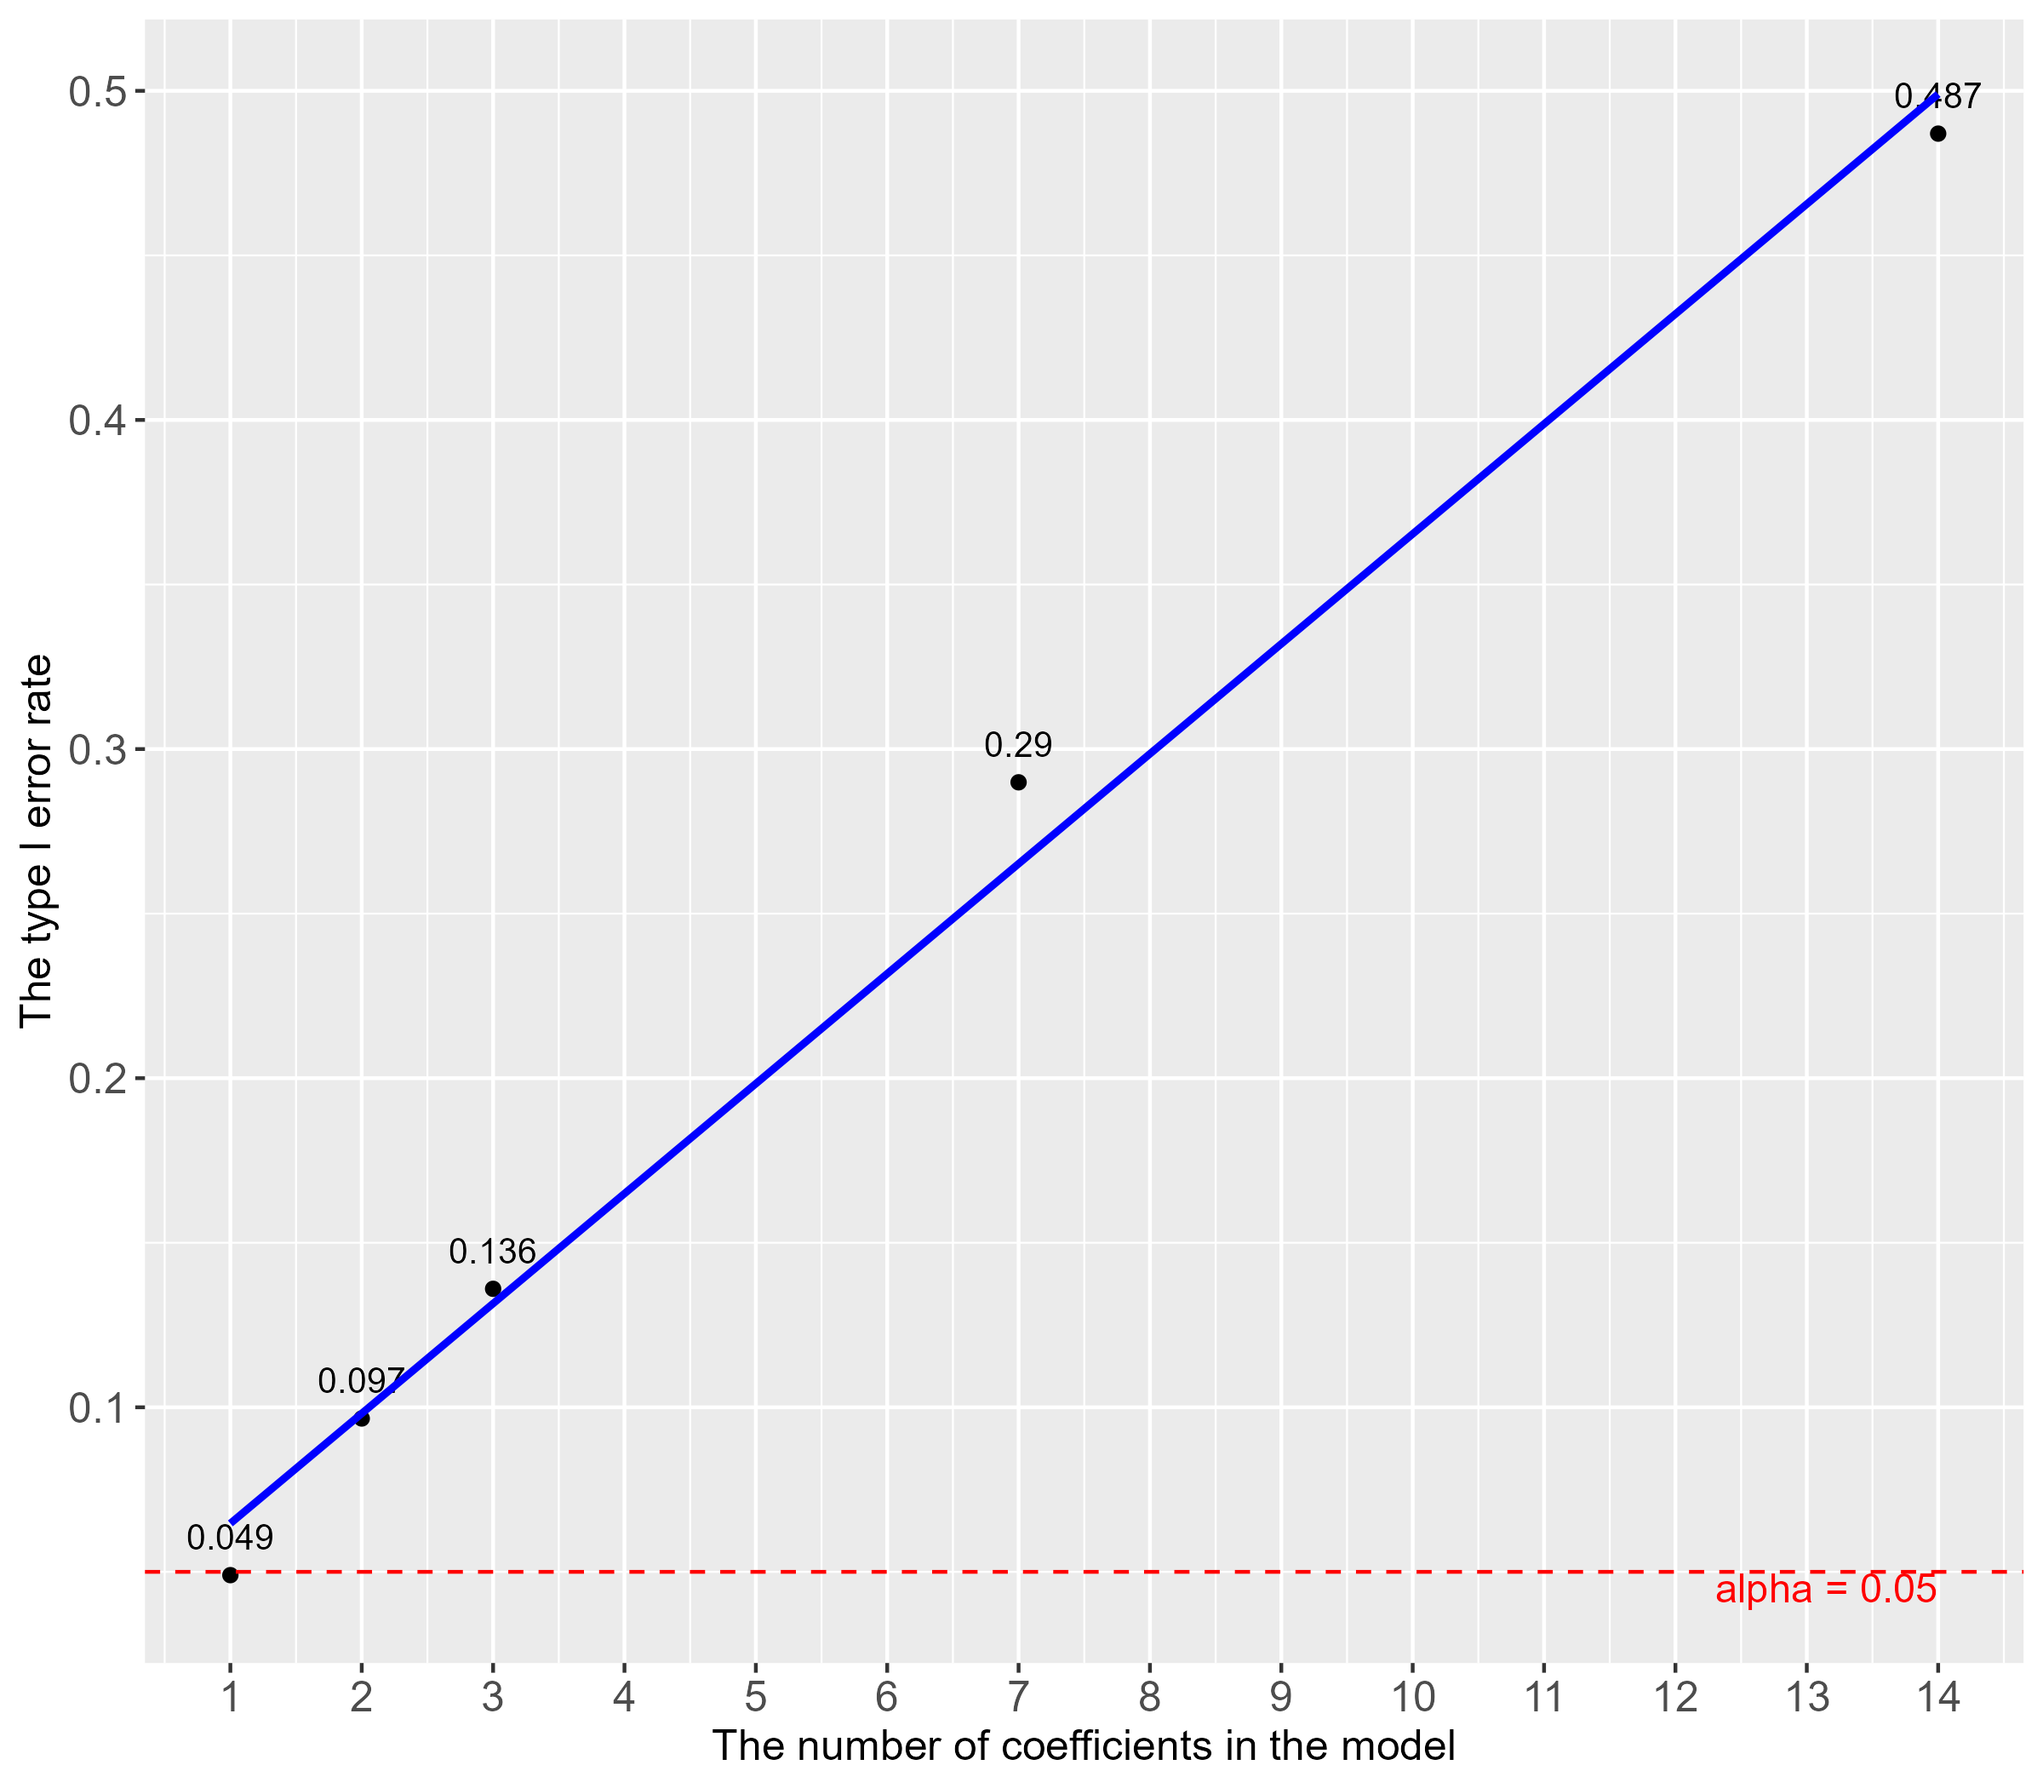
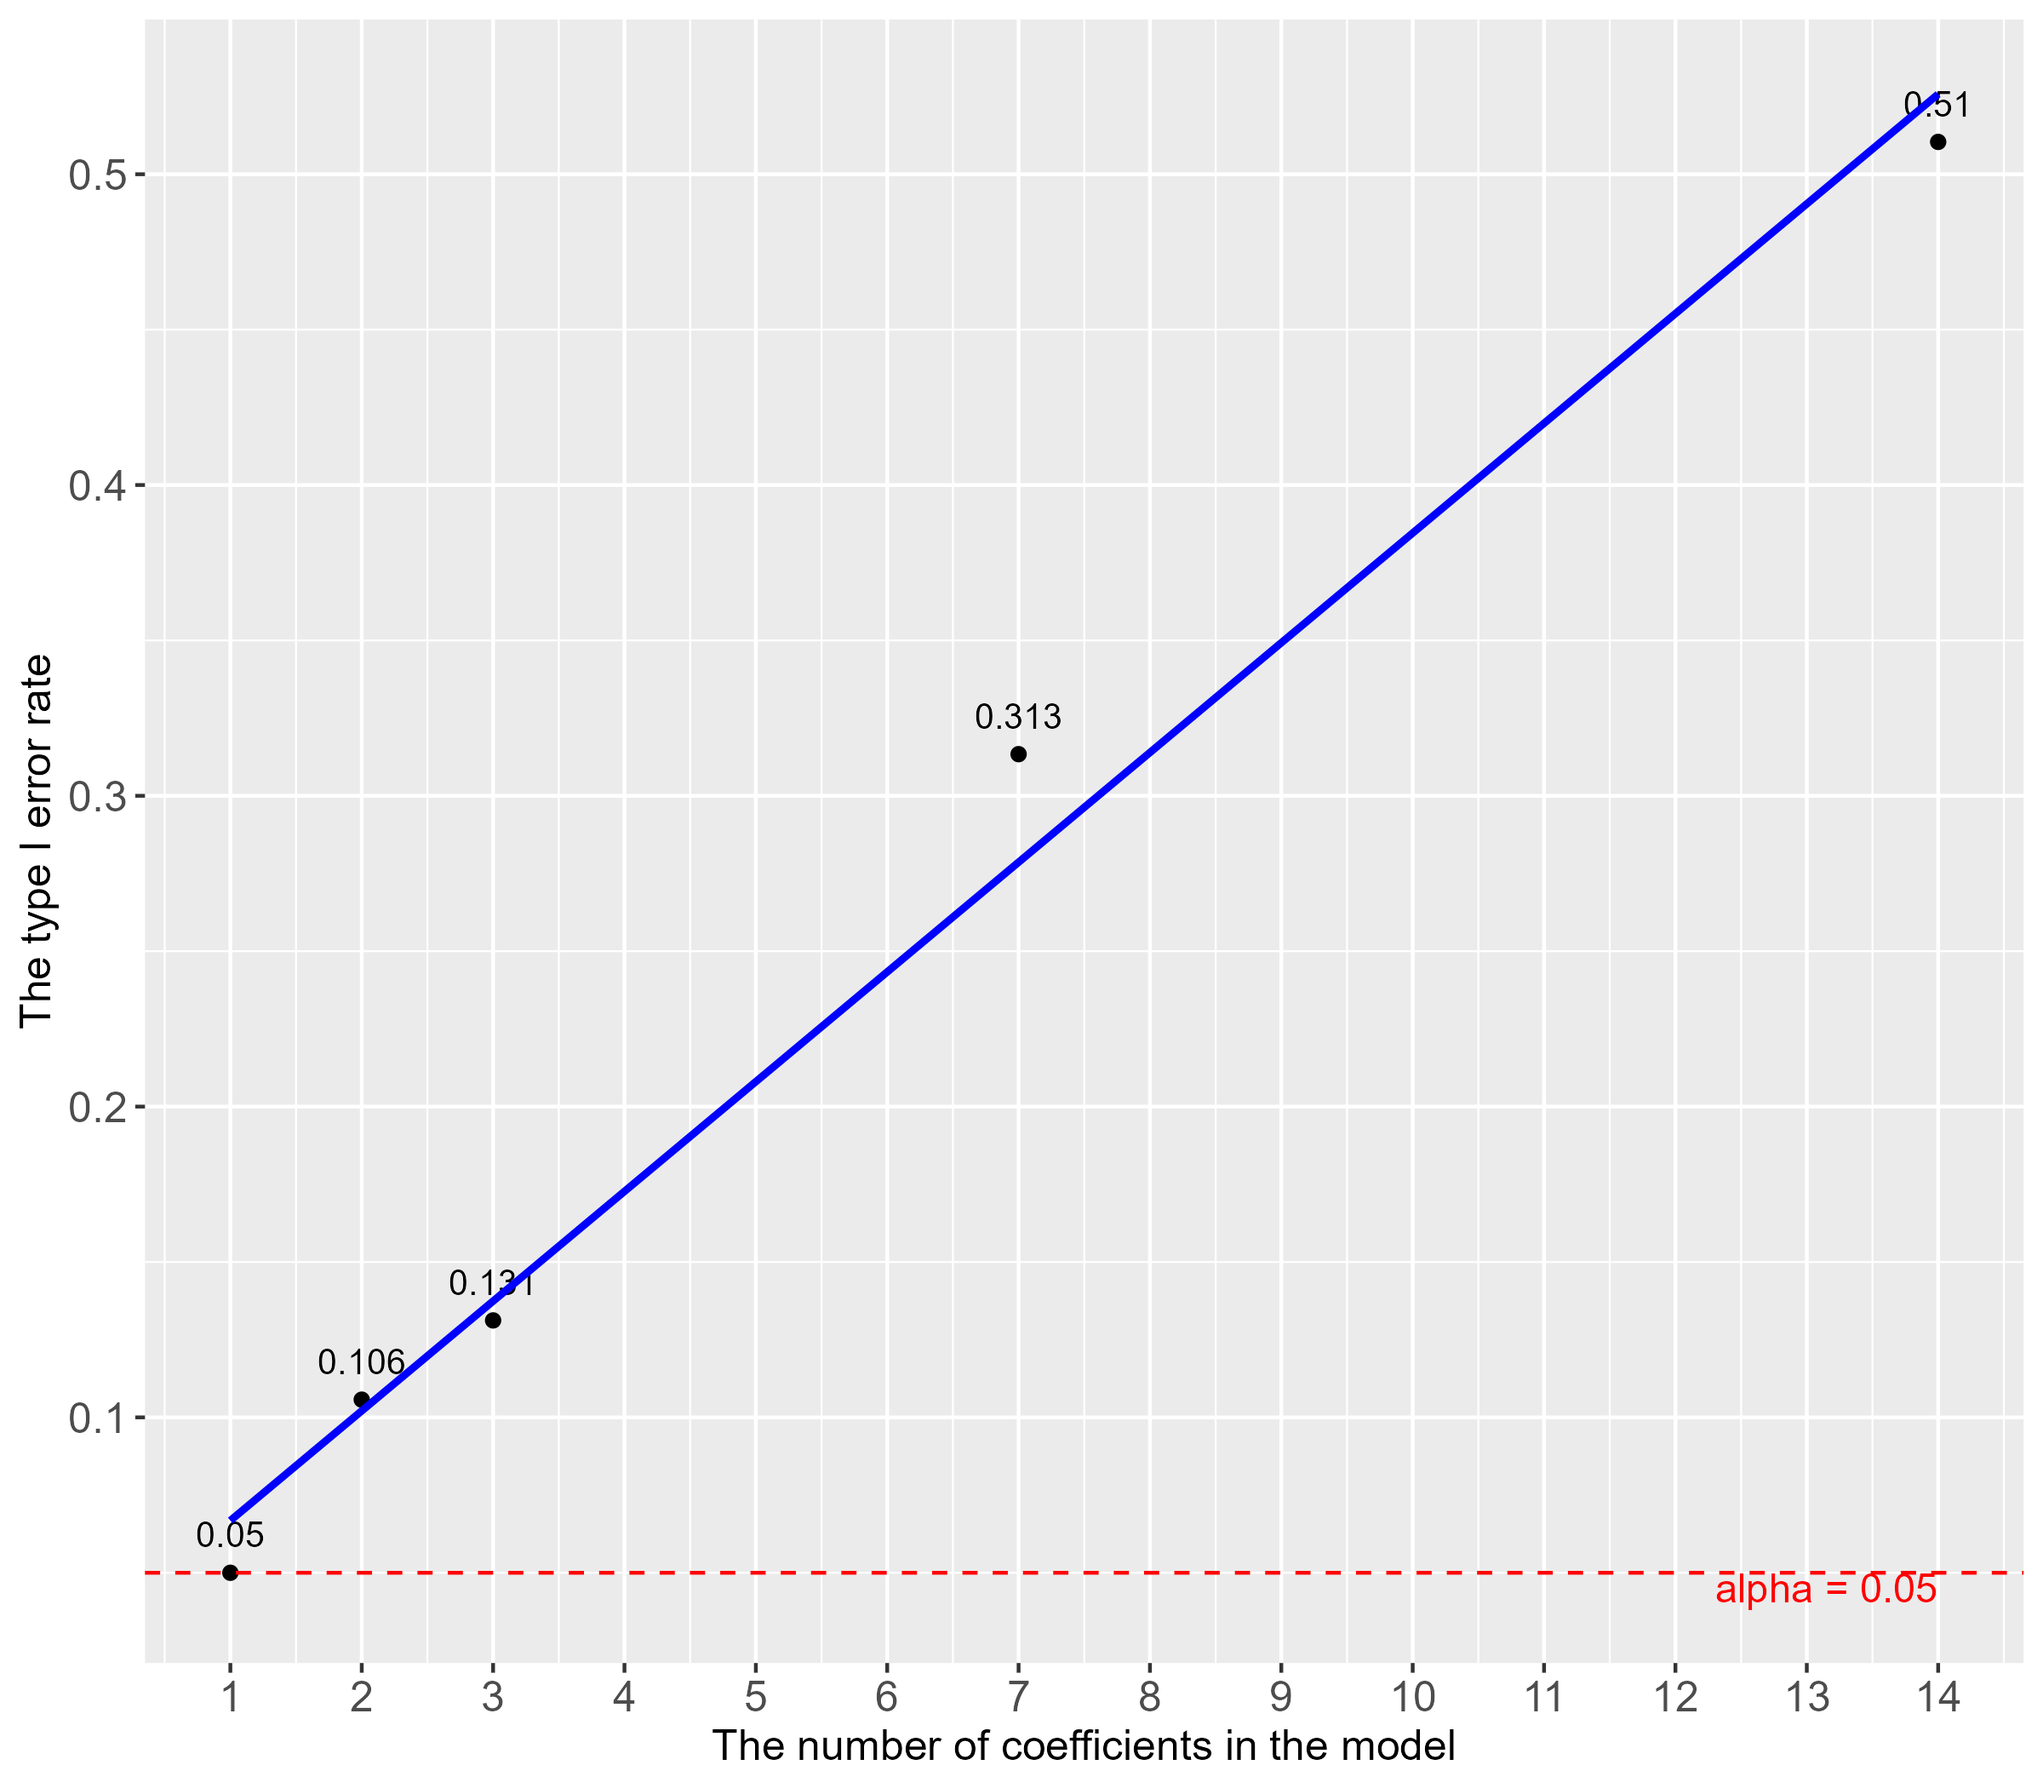
update

diff --git a/docs/index.html b/docs/index.html
@@ -401,7 +401,7 @@
 </div>
 </div>
 
-  <p class="date">20-06-2025</p>
+  <p class="date">23-06-2025</p>
 </section>
 <section id="はじめに" class="slide level2">
 <h2>はじめに</h2>
@@ -450,12 +450,14 @@
 \]</span></p></li>
 </ul>
 </section>
-<section id="回帰モデル内の係数の数も同時に検証する帰無仮説の数に対応していて2つ以上の係数は第一種の過誤のリスクを増大させてません" class="slide level2">
-<h2>回帰モデル内の係数の数も、同時に検証する帰無仮説の数に対応していて、2つ以上の係数は第一種の過誤のリスクを増大させてません？！</h2>
+<section>
+<section id="つまり" class="title-slide slide level1 center">
+<h1>つまり</h1>
+<p>回帰モデル内の係数の数も、同時に検証する帰無仮説の数に対応していて、2つ以上の係数は第一種の過誤のリスクを増大させてる？！</p>
 </section>
 <section id="回帰分析" class="slide level2">
 <h2>回帰分析</h2>
-<div class="cell" data-as.is="true">
+<div class="cell">
 <div class="cell-output cell-output-stdout">
 <pre><code>
 Call:
@@ -492,7 +494,7 @@ F-statistic: 58.36 on 2 and 29 DF,  p-value: 6.818e-11</code></pre>
 <li><p>帰無仮説：「切片はゼロ」 × 1</p></li>
 </ul></li>
 </ul>
-</section>
+</section></section>
 <section>
 <section id="シミュレーションで検証してみた" class="title-slide slide level1 center">
 <h1>シミュレーションで検証してみた</h1>
@@ -501,7 +503,7 @@ F-statistic: 58.36 on 2 and 29 DF,  p-value: 6.818e-11</code></pre>
 <section id="シミュレーションの方法" class="slide level2">
 <h2>シミュレーションの方法</h2>
 <ol type="1">
-<li><p>帰無仮説が正しい（係数 = 0）データを作成</p></li>
+<li><p>帰無仮説が正しいデータを作成</p></li>
 <li><p>回帰分析を1万回行い、<em>p</em> 値を記録</p></li>
 <li><p>1万個の <em>p</em> 値の平均が0.05よりも下回っているかを確認</p></li>
 </ol>
@@ -522,7 +524,7 @@ F-statistic: 58.36 on 2 and 29 DF,  p-value: 6.818e-11</code></pre>
 <div class="sourceCode" id="cb2"><pre class="sourceCode markdown code-with-copy"><code class="sourceCode markdown"><span id="cb2-1"><a href="#cb2-1" aria-hidden="true" tabindex="-1"></a><span class="in">```{r}</span></span>
 <span id="cb2-2"><a href="#cb2-2" aria-hidden="true" tabindex="-1"></a><span class="fu">set.seed</span>(<span class="dv">123</span>)  <span class="co"># 再現性確保</span></span>
 <span id="cb2-3"><a href="#cb2-3" aria-hidden="true" tabindex="-1"></a>n_sim <span class="ot">&lt;-</span> <span class="dv">10000</span>  <span class="co"># シミュレーション回数</span></span>
-<span id="cb2-4"><a href="#cb2-4" aria-hidden="true" tabindex="-1"></a>n_per_group <span class="ot">&lt;-</span> <span class="dv">50</span>  <span class="co"># 各グループのサンプルサイズ</span></span>
+<span id="cb2-4"><a href="#cb2-4" aria-hidden="true" tabindex="-1"></a>n_per_group <span class="ot">&lt;-</span> <span class="dv">150</span>  <span class="co"># 各グループのサンプルサイズ</span></span>
 <span id="cb2-5"><a href="#cb2-5" aria-hidden="true" tabindex="-1"></a>alpha <span class="ot">&lt;-</span> <span class="fl">0.05</span>  <span class="co"># 有意水準</span></span>
 <span id="cb2-6"><a href="#cb2-6" aria-hidden="true" tabindex="-1"></a><span class="in">```</span></span></code><button title="Copy to Clipboard" class="code-copy-button"><i class="bi"></i></button></pre></div>
 <ul>
@@ -560,9 +562,9 @@ F-statistic: 58.36 on 2 and 29 DF,  p-value: 6.818e-11</code></pre>
 </ul>
 <div class="sourceCode" id="cb5"><pre class="sourceCode markdown code-with-copy"><code class="sourceCode markdown"><span id="cb5-1"><a href="#cb5-1" aria-hidden="true" tabindex="-1"></a><span class="in">```{r}</span></span>
 <span id="cb5-2"><a href="#cb5-2" aria-hidden="true" tabindex="-1"></a>results_2factor2 <span class="ot">&lt;-</span> <span class="fu">replicate</span>(n_sim, {</span>
-<span id="cb5-3"><a href="#cb5-3" aria-hidden="true" tabindex="-1"></a>  A <span class="ot">&lt;-</span> <span class="fu">factor</span>(<span class="fu">rep</span>(<span class="fu">rep</span>(<span class="fu">c</span>(<span class="st">"X"</span>, <span class="st">"Y"</span>), <span class="at">each =</span> n_per_group), <span class="dv">2</span>)) </span>
-<span id="cb5-4"><a href="#cb5-4" aria-hidden="true" tabindex="-1"></a>  B <span class="ot">&lt;-</span> <span class="fu">factor</span>(<span class="fu">rep</span>(<span class="fu">c</span>(<span class="st">"M"</span>, <span class="st">"N"</span>), <span class="at">each =</span> <span class="dv">2</span> <span class="sc">*</span> n_per_group))</span>
-<span id="cb5-5"><a href="#cb5-5" aria-hidden="true" tabindex="-1"></a>  y <span class="ot">&lt;-</span> <span class="fu">rnorm</span>(<span class="dv">4</span> <span class="sc">*</span> n_per_group, <span class="at">mean =</span> <span class="dv">0</span>, <span class="at">sd =</span> <span class="dv">2</span>) </span>
+<span id="cb5-3"><a href="#cb5-3" aria-hidden="true" tabindex="-1"></a>A <span class="ot">&lt;-</span> <span class="fu">factor</span>(<span class="fu">rep</span>(<span class="fu">rep</span>(<span class="fu">c</span>(<span class="st">"X"</span>, <span class="st">"Y"</span>), <span class="at">each =</span> n_per_group<span class="sc">/</span><span class="dv">2</span>), <span class="dv">2</span>))</span>
+<span id="cb5-4"><a href="#cb5-4" aria-hidden="true" tabindex="-1"></a>  B <span class="ot">&lt;-</span> <span class="fu">factor</span>(<span class="fu">rep</span>(<span class="fu">c</span>(<span class="st">"M"</span>, <span class="st">"N"</span>), <span class="at">each =</span> <span class="dv">2</span> <span class="sc">*</span> n_per_group<span class="sc">/</span><span class="dv">2</span>))</span>
+<span id="cb5-5"><a href="#cb5-5" aria-hidden="true" tabindex="-1"></a>  y <span class="ot">&lt;-</span> <span class="fu">rnorm</span>(<span class="dv">2</span> <span class="sc">*</span> n_per_group, <span class="at">mean =</span> <span class="dv">0</span>, <span class="at">sd =</span> <span class="dv">2</span>) </span>
 <span id="cb5-6"><a href="#cb5-6" aria-hidden="true" tabindex="-1"></a></span>
 <span id="cb5-7"><a href="#cb5-7" aria-hidden="true" tabindex="-1"></a>  model <span class="ot">&lt;-</span> <span class="fu">lm</span>(y <span class="sc">~</span> A <span class="sc">+</span> B) </span>
 <span id="cb5-8"><a href="#cb5-8" aria-hidden="true" tabindex="-1"></a>  coef_count_excl_intercept <span class="ot">&lt;-</span> <span class="fu">length</span>(<span class="fu">coef</span>(model)) <span class="sc">-</span> <span class="dv">1</span> </span>
@@ -582,6 +584,9 @@ F-statistic: 58.36 on 2 and 29 DF,  p-value: 6.818e-11</code></pre>
 </section>
 <section id="作成したモデルとその係数の数" class="slide level2">
 <h2>作成したモデルとその係数の数</h2>
+<ul>
+<li>すべてのモデルにおいて、サンプル数は300</li>
+</ul>
 <table>
 <thead>
 <tr class="header">
